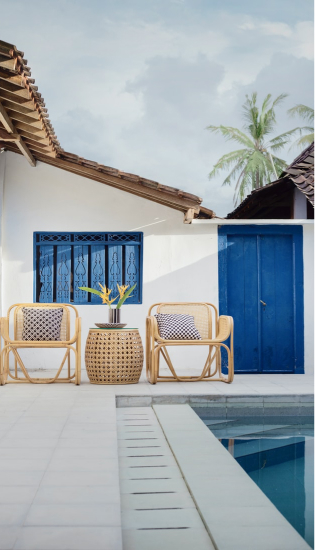
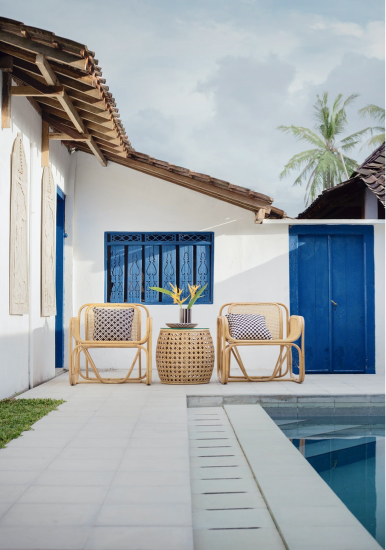
Objects is done

diff --git a/css/main.css b/css/main.css
@@ -10,6 +10,13 @@ html, body {
   margin: 0 auto;
   padding: 0 15px;
 }
+.container-fluid {
+  max-width: unset;
+  width: 100%;
+}
+.container-no-padding {
+  padding: 0;
+}
 
 .none {
   display: none;
@@ -181,12 +188,20 @@ img {
   padding-bottom: 80px;
 }
 .objects-row {
+  overflow-x: hidden;
   display: flex;
-  justify-content: space-between;
+  justify-content: center;
   align-items: center;
 }
+@media (max-width: 1495px) {
+  .objects-row {
+    justify-content: flex-end;
+  }
+}
 .objects-text {
-  max-width: 543px;
+  flex-shrink: 0;
+  padding-right: 150px;
+  max-width: 693px;
   padding-left: 181px;
 }
 .objects-text p + p {
@@ -210,6 +225,10 @@ img {
   font-weight: 700;
 }
 
+.img-card {
+  position: relative;
+  width: 385px;
+}
 .img-card + .img-card {
   margin-left: 32px;
 }
@@ -218,6 +237,26 @@ img {
 }
 .img-card-rounder .img-card-img {
   border-radius: 20px;
+}
+.img-card-info {
+  position: absolute;
+  bottom: 87px;
+  right: -46px;
+}
+
+.card-info {
+  display: flex;
+  align-items: center;
+  padding: 30px;
+  background-color: #fff;
+  box-shadow: 4px 20px 42px -2px rgba(0, 0, 0, 0.12);
+  border-radius: 15px;
+}
+.card-info-icon {
+  margin-right: 20px;
+}
+.card-info-title {
+  font-weight: 700;
 }
 
 /*# sourceMappingURL=main.css.map */

diff --git a/styles/bloccks/objects.scss b/styles/bloccks/objects.scss
@@ -5,16 +5,23 @@
   padding-bottom: 80px;
 
   &-row {
+    overflow-x: hidden;
     display: flex;
-    justify-content: space-between;
+    justify-content: center;
     align-items: center;
+
+    @media (max-width: 1495px) {
+      justify-content: flex-end;
+    }
   }
 
   &-text {
-    max-width: 543px;
+    flex-shrink: 0;
+    padding-right: 150px;
+    max-width: 693px;
     padding-left: 181px;
 
-    p + p{
+    p + p {
       margin-top: 20px;
     }
   }
@@ -25,6 +32,7 @@
     align-items: flex-start;
 
   }
+
   &-title {
     margin-bottom: 20px;
   }

diff --git a/styles/bloccks/card-info.scss b/styles/bloccks/card-info.scss
@@ -1,0 +1,18 @@
+@import "../base/colors";
+
+.card-info {
+  display: flex;
+  align-items: center;
+  padding: 30px;
+  background-color: #fff;
+  box-shadow: 4px 20px 42px -2px rgba(0, 0, 0, 0.12);
+  border-radius: 15px;
+
+  &-icon {
+    margin-right: 20px;
+  }
+
+  &-title {
+    font-weight: 700;
+  }
+}

diff --git a/styles/bloccks/img-card.scss b/styles/bloccks/img-card.scss
@@ -1,10 +1,13 @@
 @import "../base/colors";
 
 .img-card {
+  position: relative;
+  width: 385px;
 
   & + & {
     margin-left: 32px;
   }
+
   &-img {
     border-radius: 20px 20px 0 20px;
 
@@ -13,7 +16,9 @@
     }
   }
 
-
-
-
+  &-info {
+    position: absolute;
+    bottom: 87px;
+    right: -46px;
+  }
 }

diff --git a/index.html b/index.html
@@ -70,7 +70,7 @@
 </section>
 
 <section class="objects">
-    <div class="container">
+    <div class="container container-fluid container-no-padding">
         <div class="objects-row">
             <div class="objects-img">
                 <div class="img-card img-card-rounder">

diff --git a/styles/base/base.scss b/styles/base/base.scss
@@ -11,6 +11,15 @@ html, body {
   max-width: 1140px;
   margin: 0 auto;
   padding: 0 15px;
+
+  &-fluid {
+    max-width: unset;
+    width: 100%;
+  }
+
+  &-no-padding {
+    padding: 0;
+  }
 }
 
 .none {

diff --git a/styles/main.scss b/styles/main.scss
@@ -11,3 +11,4 @@
 @import "bloccks/objects";
 @import "bloccks/title";
 @import "bloccks/img-card";
+@import "bloccks/card-info";

diff --git a/styles/bloccks/logo.scss b/styles/bloccks/logo.scss
@@ -6,5 +6,4 @@
   font-weight: 700;
 
 
-
 }
